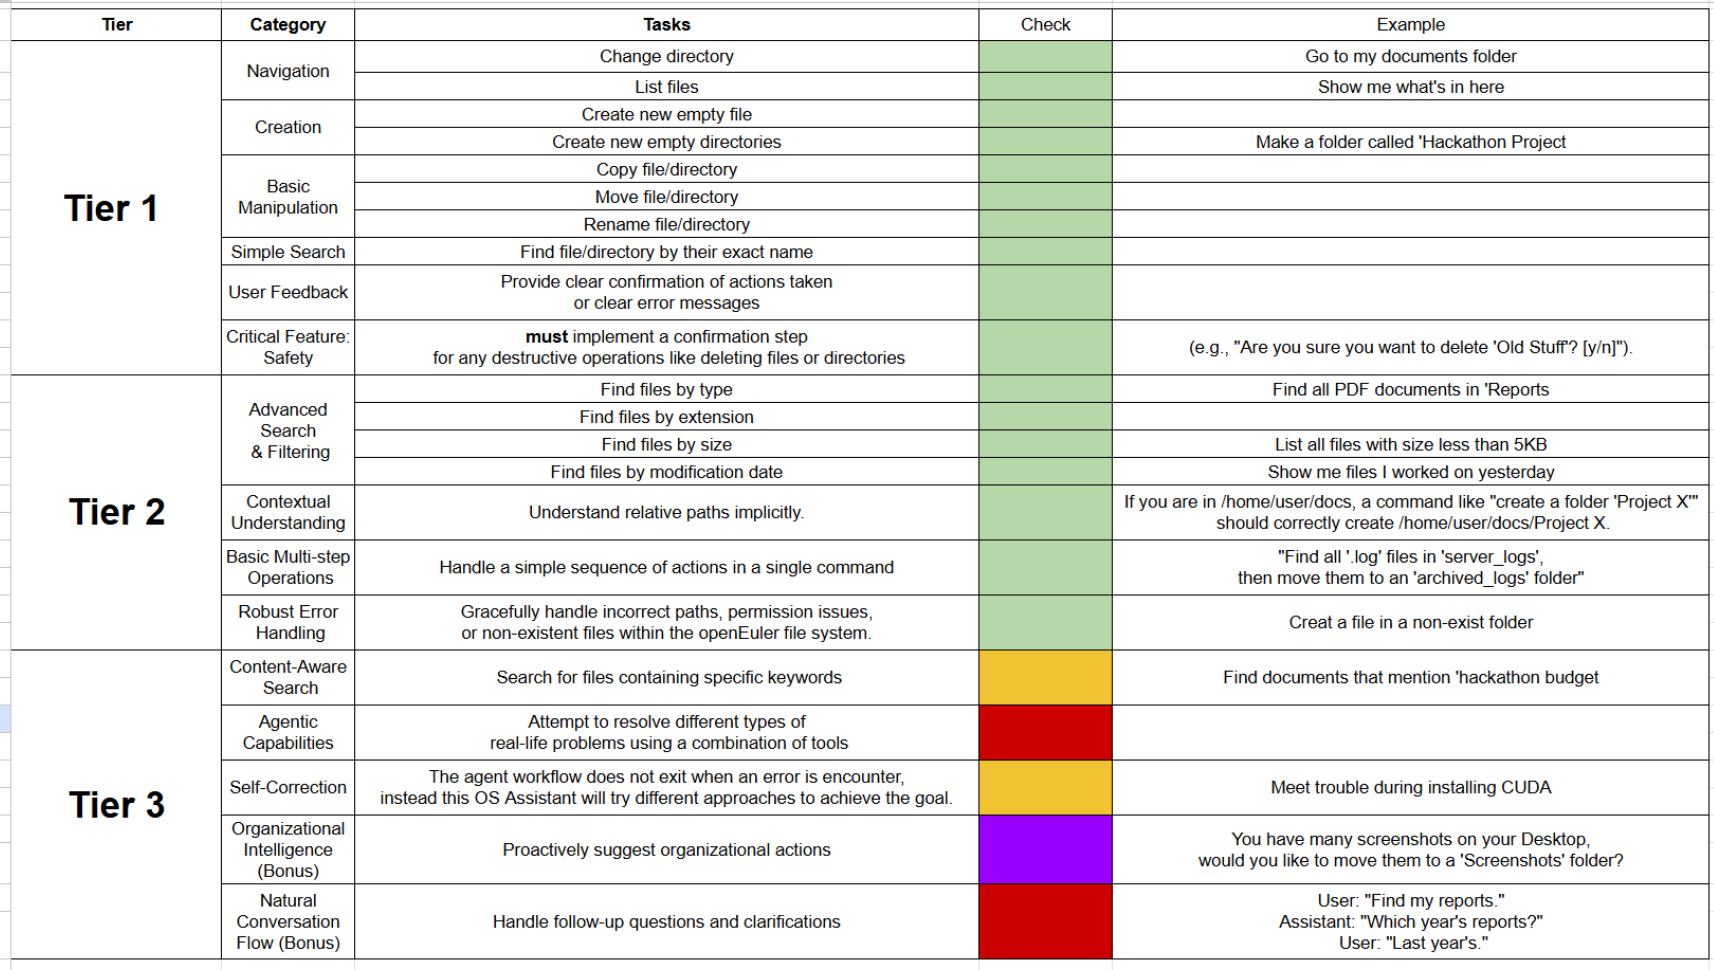
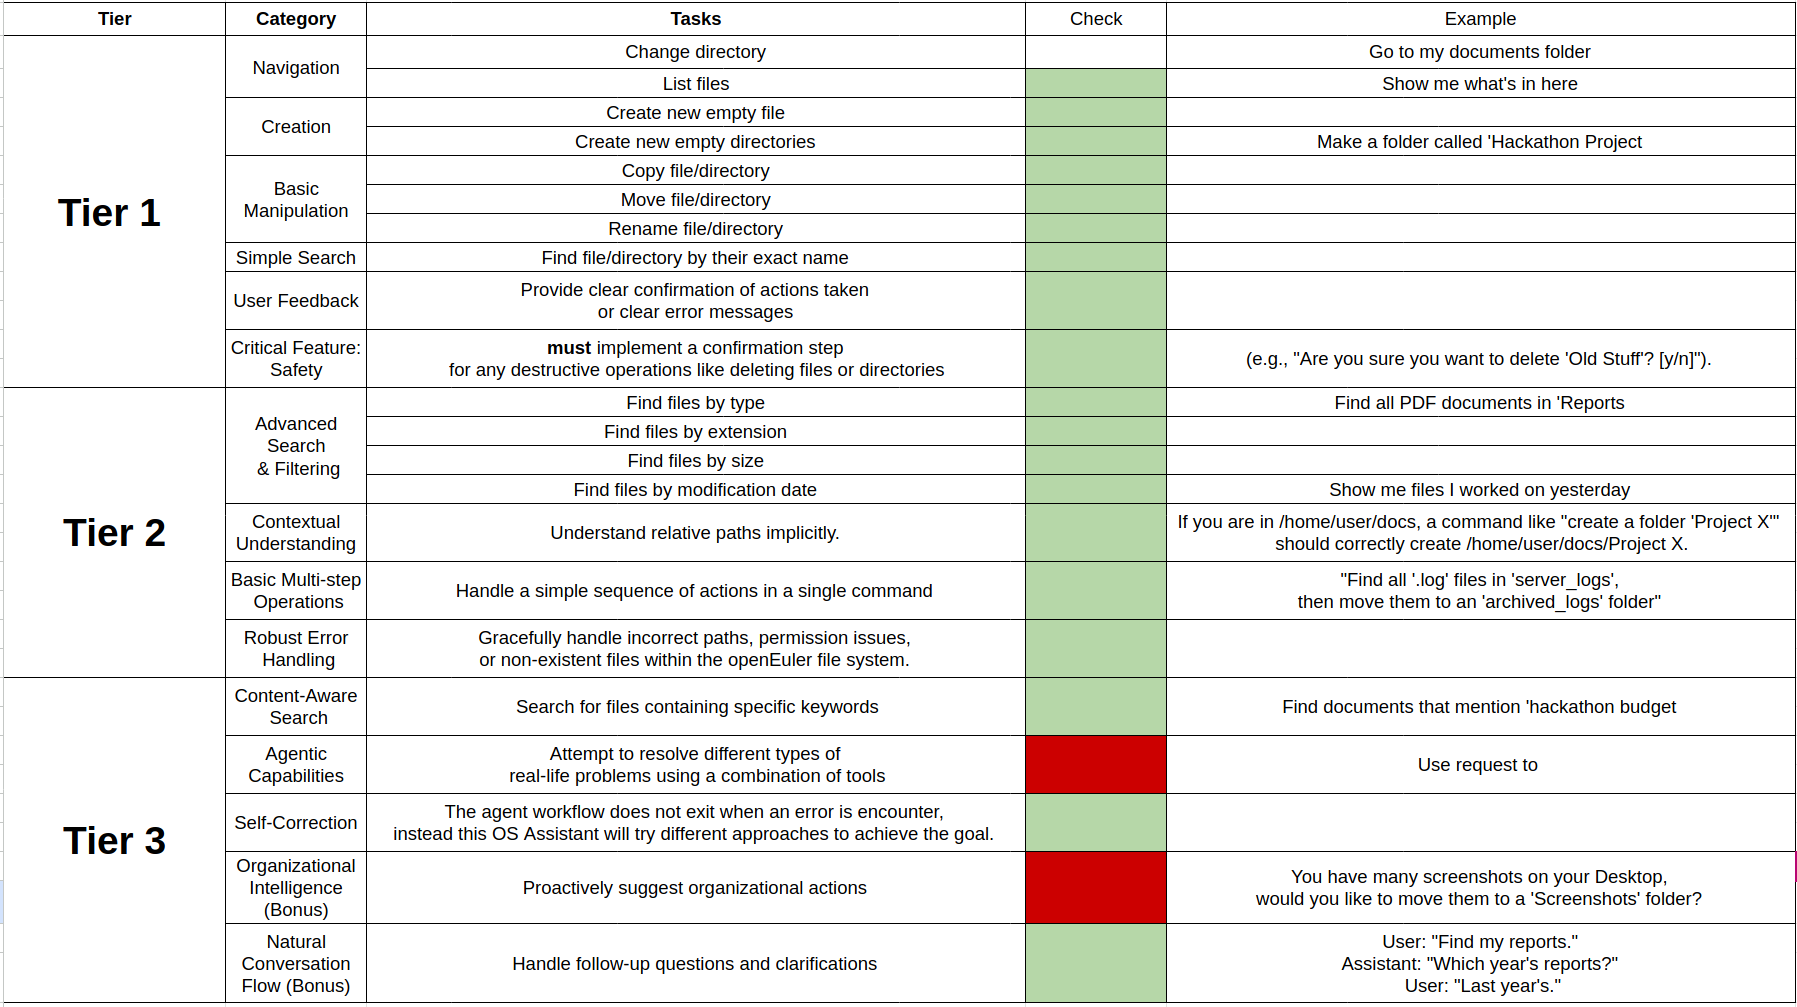
modified readme

diff --git a/work/src/chat.py b/work/src/chat.py
@@ -1,4 +1,4 @@
-# chat类函数，用于调用openai的chat接口
+# chat module, handles chat interactions with OpenAI and Qwen models
 
 import json
 from openai import OpenAI

diff --git a/README.md b/README.md
@@ -40,44 +40,56 @@ Our system follows a multi-agent architecture that processes user natural langua
 - **Agent-e – Error Correction Agent:**  
   Monitors execution results. If a command fails, it analyzes the error, adjusts the plan, and sends the updated result back to Agent-2 to automatically regenerate commands and retry execution.
 
-In addition, we designed an **efficient interaction mechanism**: by configuring commands such as `vi ~/.bashrc`, users can directly invoke **Samantha** in the terminal simply by typing `samantha` followed by their request, without needing to manually run a script each time.
+In addition, we designed an **efficient interaction mechanism**: after setting up _(simply using `source /work/setup.sh`)_, users can directly invoke **Samantha** in the terminal simply by typing `samantha` followed by their request, without needing to manually run a script each time.
 
 ![efficient interaction](readme_help/simple.png)
 
 ### 3. ✅ Current Implementation & Results
 
-Our current version of **Samantha** successfully implements all core features from **Tier 1** and **Tier 2**, providing a robust and intelligent natural language interface for the openEuler terminal.
+Our current version of **Samantha** successfully implements all core features from **Tier 1** and **Tier 2**, as well as several features in **Tier 3**, providing a robust and intelligent natural language interface for the openEuler terminal.
+
 ![efficient interaction](readme_help/overall_progress.png)
 
 #### 🧰 Tier 1 – Basic File Operations  
-- ✅ Navigation: change directories and list files using natural language.  
-- ✅ Creation: create new files and directories.  
-- ✅ Basic manipulation: copy, move, and rename files or directories.  
-- ✅ Simple search: find files or directories by exact name.  
-- ✅ User feedback: provide clear confirmation of actions or error messages.  
-- ✅ Safety mechanism: confirmation required for destructive operations (e.g., delete).
+- ✅ **Navigation:** change directories and list files using natural language.  
+- ✅ **Creation:** create new files and directories.  
+- ✅ **Basic manipulation:** copy, move, and rename files or directories.  
+- ✅ **Simple search:** find files or directories by exact name.  
+- ✅ **User feedback:** provide clear confirmation of actions or error messages.  
+- ✅ **Safety mechanism:** confirmation required for destructive operations (e.g., delete).
 ![Safety mechanism](readme_help/t1_safty.png)  
 *Figure：Safety mechanism - Ask user if to permanently delete a file.*
 
 #### ⚙ Tier 2 – Enhanced Intelligence  
 
-- ✅ Advanced search and filtering by type, extension, size, or modification date.  
+- ✅ **Advanced search and filtering** by type, extension, size, or modification date.  
 ![efficient interaction](readme_help/t2_example.png)  
 *Figure：example of Advance search - file filtering by size.*
-- ✅ Context awareness: understands relative paths and context implicitly.  
-- ✅ Basic multi-step operations: handles sequences of actions in a single request.  
-- ✅ Robust error handling: gracefully handles invalid paths, permission issues, and missing files.
+- ✅ **Context awareness:** understands relative paths and context implicitly.  
+- ✅ **Basic multi-step operations:** handles sequences of actions in a single request.  
+- ✅ **Robust error handling:** gracefully handles invalid paths, permission issues, and missing files.
 ![Robust error handling](readme_help/t2_error_handling.png)  
 *Figure：example of Robust error handling - create a file in non-exist folder.*
 
 
-#### 🚧 Tier 3 – Work in Progress  
+#### 🚧 Tier 3 – More advanced  
 
-Due to time constraints, Tier 3 features such as **content-aware search**, **agentic capabilities**, and **natural conversation flow** are not yet fully implemented. However, we have already reserved internal pipelines for future Tier 3 development, including logging mechanisms and other extensions. More details are discussed in the next section.
+- ✅ **Content-Aware Search:**  able to search for files ontaining specific keywords. 
+![keyword search](readme_help/t3_example1.png)
+*Figure：example of keyword search - find all the files include "openai".*
+- ✅ **Self-Correction:** when an error is encounter, Samantha will try different approaches to achieve the goal. (Up to _three_ self-correction attempts will be tried)
+![keyword search](readme_help/t3_example_sc.png)
+*Figure：example of self correction.*
+- ✅ **Natural Conversation Flow:** Samantha can handle follow-up questions and clarifications. In case the request is not clear, she will ask for clarification until she exactly get your point. If during the conversion you don't want her to execute the request anymore, she will simply do nothing and exit.
+![keyword search](readme_help/t3_example2.png)
+*Figure：example of keyword search - find all the files include "openai".*
+
+Due to time constraints, there are Tier 3 features (**agentic capabilities**, **organizational 
+Intelligence**) that have not yet fully been implemented. However, we have already reserved internal pipelines for future Tier 3 development, including logging mechanisms and other extensions. More details are discussed in the next section.
 
 ### 3. 🚀 Future Work
 
-Although our current implementation focuses on Tier 1 and Tier 2 functionality, we have laid a solid foundation for future development towards Tier 3 and more advanced intelligent capabilities.
+Although our current implementation focuses on Tier 1 and Tier 2 functionality, we have laid a solid foundation for future development towards these Tier 3 and more advanced intelligent capabilities.
 
 To support these future features, we have already made several key architectural preparations, some have already achieved:
 
@@ -87,3 +99,4 @@ To support these future features, we have already made several key architectural
 - **Logging System:** A complete logging mechanism has been implemented to record user interactions, execution results, and error information. This provides the groundwork for context-aware decision-making, adaptive learning, and self-improvement.
 - **Vector Space Database:** The architecture includes a reserved vector space database interface, enabling future integration of semantic search for PDF files and images.
 - **Tool Integration Pathways:** The system design anticipates the inclusion of external tools, allowing the assistant to extend its capabilities beyond basic shell commands. This system will be achieved by using LangGraph.
+
